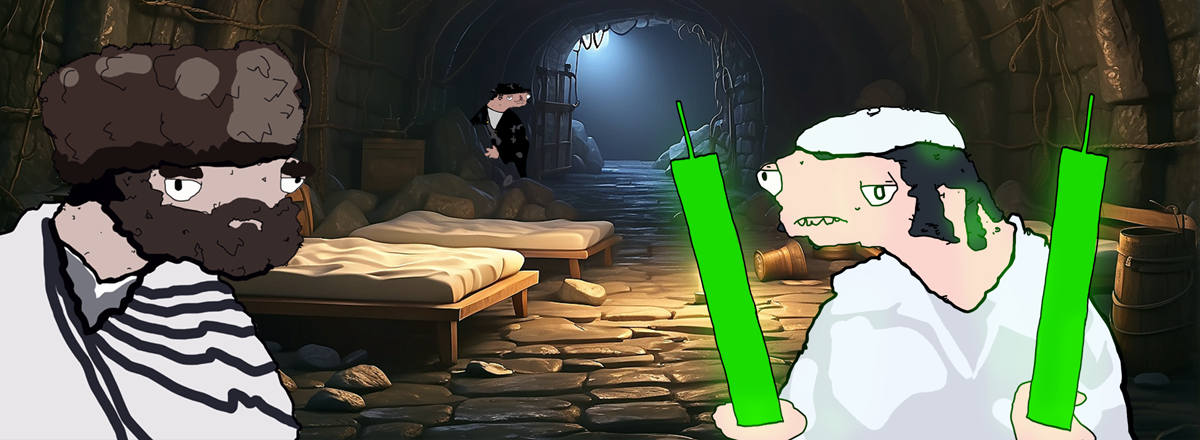
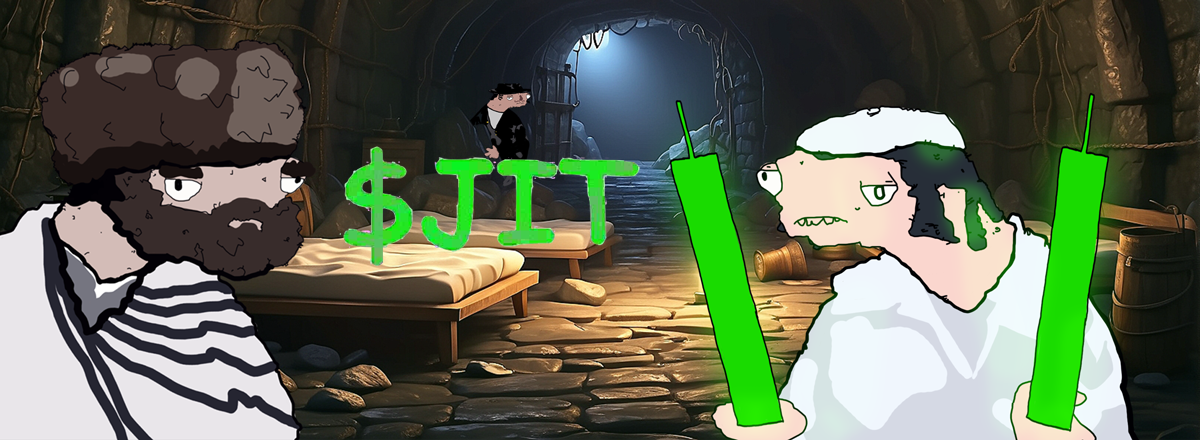
Add files via upload

Changed region(s): [[0.2775, 0.325, 0.555, 0.6205]]

diff --git a/index.html b/index.html
@@ -21,7 +21,7 @@
     justify-content: space-between;
     align-items: center;
     padding: 20px;
-    background-color: blue;
+    background-color: #0132A8;
     color: #fff;
   }
   .glow {
@@ -65,7 +65,7 @@
     font-size: 3em;
   }
   .top {
-    background-color: blue;
+    background-color: #0132A8;
     color: white;
   }
   .about {
@@ -76,14 +76,20 @@
   }
   .buy {
     padding: 50px;
-    background-color: blue;
+    background-color: #0132A8;
     color: white;
+    margin-top: 20px;
+  }
+  .info {
+    padding: 50px;
+    background-color: #e8e8e8;
+    color: black;
     margin-top: 20px;
   }
 </style>
 </head>
 <body>
-<header>
+<header style="background-color: #0500a1">
   <div>
     <h2 class="glow">Jews in Tunnels</h2>
   </div>
@@ -97,24 +103,71 @@
     </div>
   </div>
 </header>
+<marquee style="font-size:30px;background-color:#001851;color:#40f540">
+<span>$JIT ▲69420%          </span>
+<span>$JIT ▲69420%          </span>
+<span>$JIT ▲69420%          </span>
+<span style="color:red">$SPY ▼99.99%          </span>
+</marquee>
 
 <div class="top" id="top">
   <div class="container">
     <div style="display:flex;flex-direction:row;justify-content:center;align-items:center">
-      <h1 class="glow" style="font-size:150px">$JIT </h1>
-      <div style="width:2%"></div>
       <img style="border-width:10px;border-radius:5px;border-color:black;border-style:solid;" src="banner.png" alt="banner" width="1000">
+      <br/>
     </div>
   </div>
+  <div style="display: flex; flex-direction: column; justify-content: center; margin: 0% 20%">
+    <div style="display: flex; flex-direction: row; justify-content: space-between; align-items: center; gap: 5px;">
+      <a target="_blank" style="display: flex; align-items: center; gap: 3px; color: white;" href="https://discord.gg/dwbxFTxRh9">
+        <img alt="discord" src="discord.png" width="41">
+        <span style="font-size: 14px;">discord</span>
+      </a>
+      <a target="_blank" style="display: flex; align-items: center; gap: 3px; color: white;" href="https://x.com/jewsintunnels">
+        <img alt="twitter" src="twitter.png" width="41">
+        <span style="font-size: 14px;">twitter</span>
+      </a>
+      <a target="_blank" style="display: flex; align-items: center; gap: 3px; color: white;" href="https://dexscreener.com/solana/asdf">
+        <img alt="chart" src="dexscreener.png" width="41">
+        <span style="font-size: 14px;">dexscreener</span>
+      </a>
+      <a target="_blank" style="display: flex; align-items: center; gap: 3px; color: white;" href="https://asdf.com">
+        <img alt="dextools" src="dextools.png" width="41">
+        <span style="font-size: 14px;">Dextools</span>
+      </a>
+    </div>
+  </div>
+    <br/>
+    <br/>
+    <br/>
+    <br/>
 </div>
 
 <div class="about" id="about">
-  <h2>About JIT</h2>
-  <p>Tunnels, the ultimate form of transportation in New York City. We are JIT.</p>
+  <h2>About $JIT</h2>
+  <div style="display:flex;font-size:17px;justify-content:space-between;line-height:2">
+    <div style="width:50vh">
+      <p>Tunnels, the ultimate form of transportation in New York City. We are JIT.</p>
+      Rabbi Shlomi needs more tunnelers to construct his covert NYC tunnel project. He must tunnel to congress to pass his new bill on cryptocurrency tax deductions before passover. Support the tunnels and dump your shekels for $JIT today!
+    </div>
+    <div>
+      <video style="width:50vh" muted autoplay controls>
+        <source src="vid.mp4" type="video/mp4">
+          Your browser does not support the video tag. Fix ur shit
+      </video>
+      <video style="width:50vh" muted autoplay controls>
+        <source src="vid.mp4" type="video/mp4">
+          Your browser does not support the video tag. Fix ur shit
+      </video>
+    </div>
+  </div>
 </div>
 <div class="buy" id="buy">
   <h2>Buy JIT</h2>
   <p>Swap your Solana for JIT on <a style="color:white" href="https://raydium.io/swap/?outputCurrency=9y4zGixmVFGj47RCtbjgdjqWRASnp2HM1X8t7SHoM3HA">Raydium</a>.</p>
+</div>
+<div class="info" id="info">
+  <img style="" src="trump.png" alt="twitter" width="1000">
 </div>
 
 <script>
@@ -128,3 +181,4 @@
 </script>
 </body>
 </html>
+
